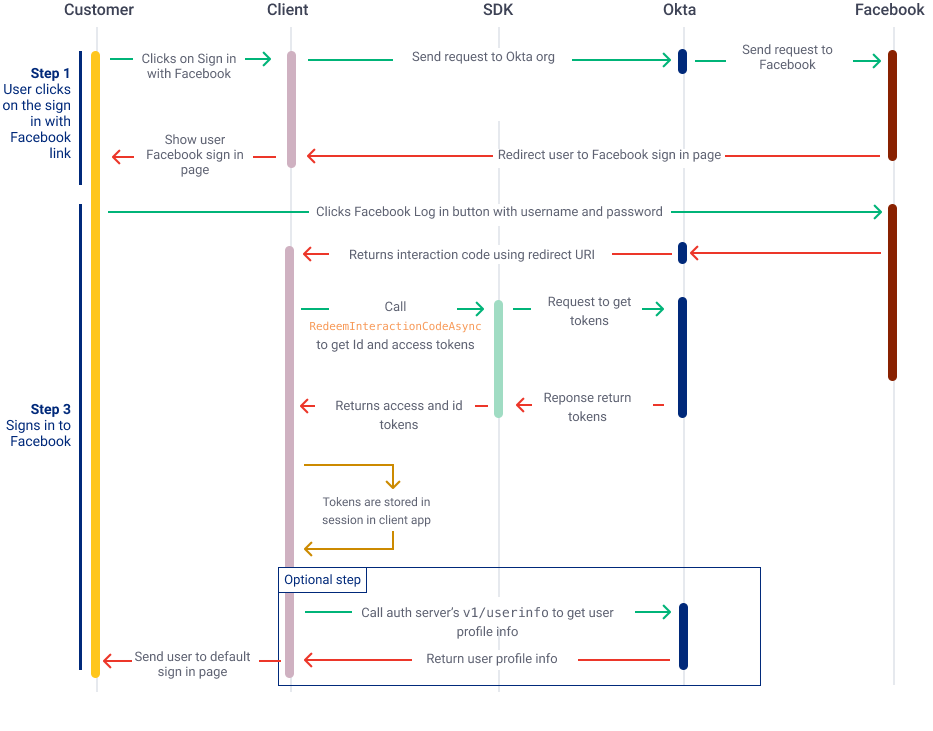
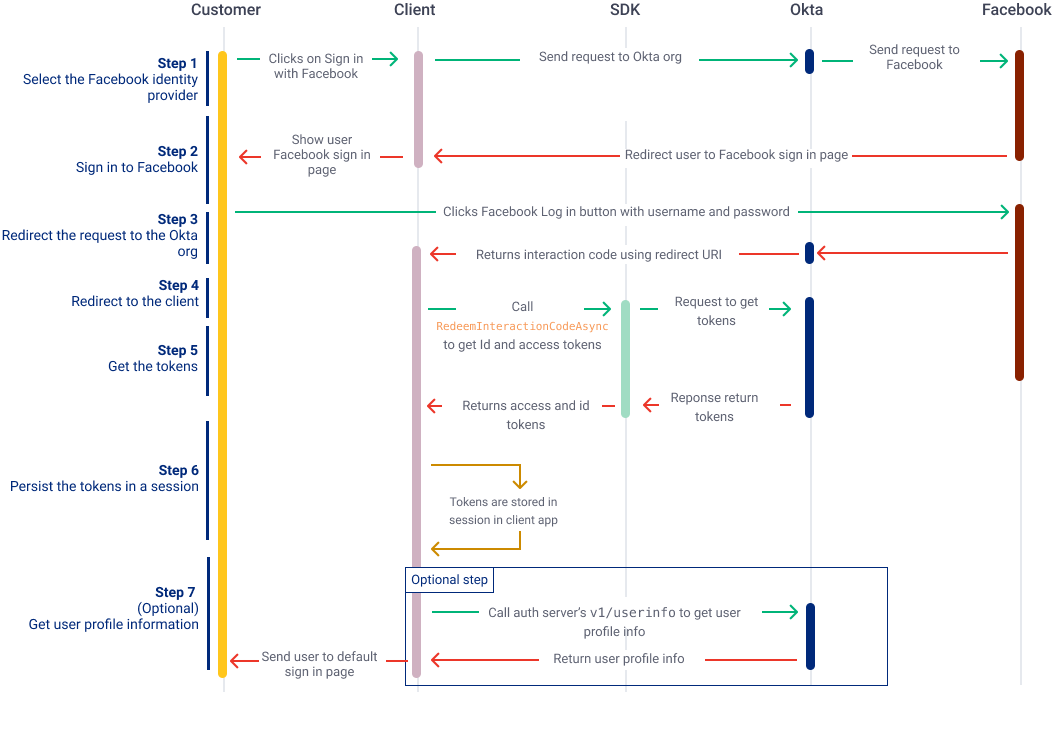
aspnet widget - social sign in

diff --git a/packages/@okta/vuepress-site/docs/guides/oie-embedded-widget-use-cases/oie-embedded-widget-use-case-sign-in-soc-idp/aspnet/integrationsteps.md b/packages/@okta/vuepress-site/docs/guides/oie-embedded-widget-use-cases/oie-embedded-widget-use-case-sign-in-soc-idp/aspnet/integrationsteps.md
@@ -1,11 +1,11 @@
 
-###  Step 1: User signs in with Facebook link
+###  Step 1: Select the Facebook identity provider
 
 After you complete the steps in [Set up your Okta org (for social identity providers)](/docs/guides/oie-embedded-widget-use-cases/aspnet/oie-embedded-widget-use-case-sign-in-soc-idp/#step-2-set-up-your-okta-org-for-social-identity-providers), the **Sign in with Facebook** link should appear automatically on the widget. You don't need to make any code changes to make the link appear.
 
 When the user clicks this link, they are sent to the Facebook login screen.
 
-### Step 2: User signs in to Facebook
+### Step 2: Sign in to Facebook
 
 The user enters their email and password, and clicks **Log In**. This page is hosted by Facebook. The user information that you enter originates from a test user that you configured in [Set up your Okta org (for social identity providers)](/docs/guides/oie-embedded-common-org-setup/aspnet/main/#set-up-your-okta-org-for-social-identity-providers). You don't need to make any code changes in your app to support this step.
 
@@ -16,10 +16,11 @@ The user enters their email and password, and clicks **Log In**. This page is ho
 
 </div>
 
-### Step 3: Facebook redirects to your Okta org
+### Step 3: Redirect the request to the Okta org
+
 If the user's Facebook login is successful, Facebook routes the user to the value that you entered for **Valid OAuth Redirect URIs** and **Site URL** in [Set up your Okta org (for social identity providers)](/docs/guides/oie-embedded-common-org-setup/aspnet/main/#set-up-your-okta-org-for-social-identity-providers). The value takes on the following format: `https://{Okta org domain}/oauth2/v1/authorize/callback`, for example, `https://dev-12345678.okta.com/oauth2/v1/authorize/callback`)
 
-### Step 4: Okta org redirects to your app through sign-in redirect URIs
+### Step 4: Redirect to the client
 
 After Facebook sends the success login request to your Okta org, the org redirects the request to your app through the Application's **Sign-in redirect URIs** field.
 
@@ -39,7 +40,7 @@ public async Task<ActionResult> Callback(string state = null, string interaction
 }
 ```
 
-### Step 5: Call RedeemInteractionCodeAsync to get tokens
+### Step 5: Get tokens
 
 The next step is to call `RedeemInteractionCodeAsync` inside the callback function for the `IdxClient`. The interaction code is used get the ID and access tokens, which you can subsequently use to pull user information.
 
@@ -47,7 +48,17 @@ The next step is to call `RedeemInteractionCodeAsync` inside the callback functi
 Okta.Idx.Sdk.TokenResponse tokens = await _idxClient.RedeemInteractionCodeAsync(idxContext, interaction_code);
 ```
 
-### Step 6: Call user profile information (Optional)
+### Step 6: Persist the tokens in a session
+
+Persist the tokens in session for future use. The following code below from the sample application uses
+`IAuthenticationManager` from `Microsoft.Owin.Security` to persist these tokens in session.
+
+```csharp
+ClaimsIdentity identity = await AuthenticationHelper.GetIdentityFromTokenResponseAsync(_idxClient.Configuration, tokens);
+_authenticationManager.SignIn(new AuthenticationProperties { IsPersistent = false }, identity);
+```
+
+### Step 7: (Optional) Get user profile information
 
 Depending on your implementation, you can choose to pull user information. When you use the tokens that are provided by the `RedeemInteractionCodeAsync` method, you can request the user profile information from the `v1/userinfo` endpoint.
 The following code from the sample app provides details on this call.
@@ -67,14 +78,4 @@ public static async Task<IEnumerable<Claim>> GetClaimsFromUserInfoAsync(IdxConfi
             == "name")?.Value);
    return userInfoResponse.Claims.Append(nameClaim);
 }
-```
-
-### Step 7: Persist the tokens in session
-
-The final step is to persist the tokens in session for future use. The following code below from the sample application uses
-`IAuthenticationManager` from `Microsoft.Owin.Security` to persist these tokens in session.
-
-```csharp
-ClaimsIdentity identity = await AuthenticationHelper.GetIdentityFromTokenResponseAsync(_idxClient.Configuration, tokens);
-_authenticationManager.SignIn(new AuthenticationProperties { IsPersistent = false }, identity);
 ```
